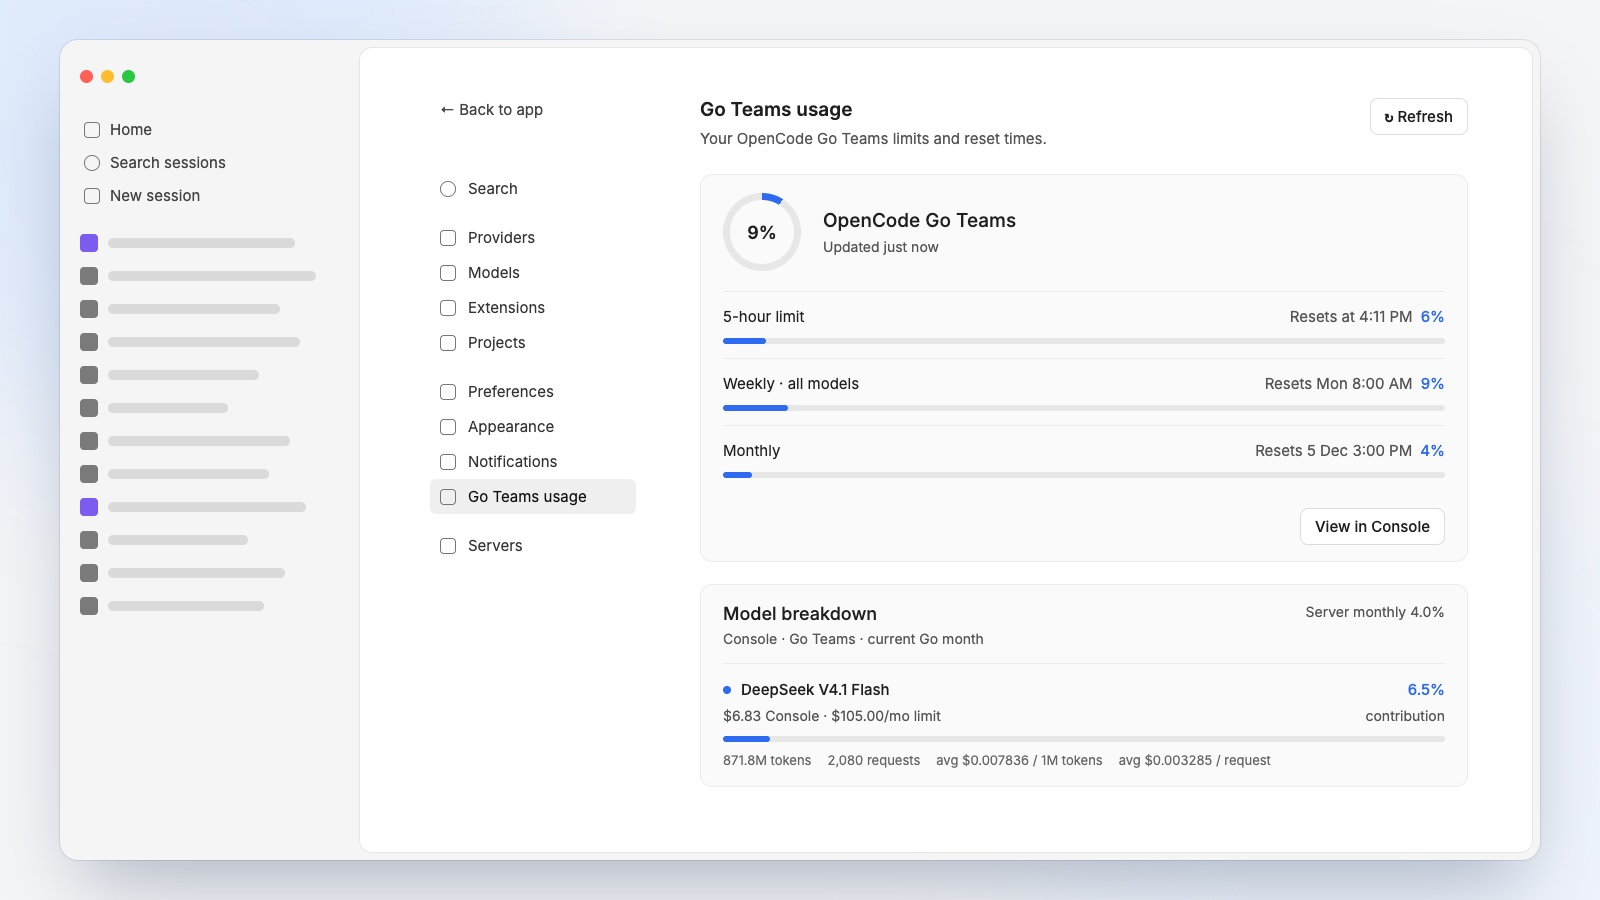
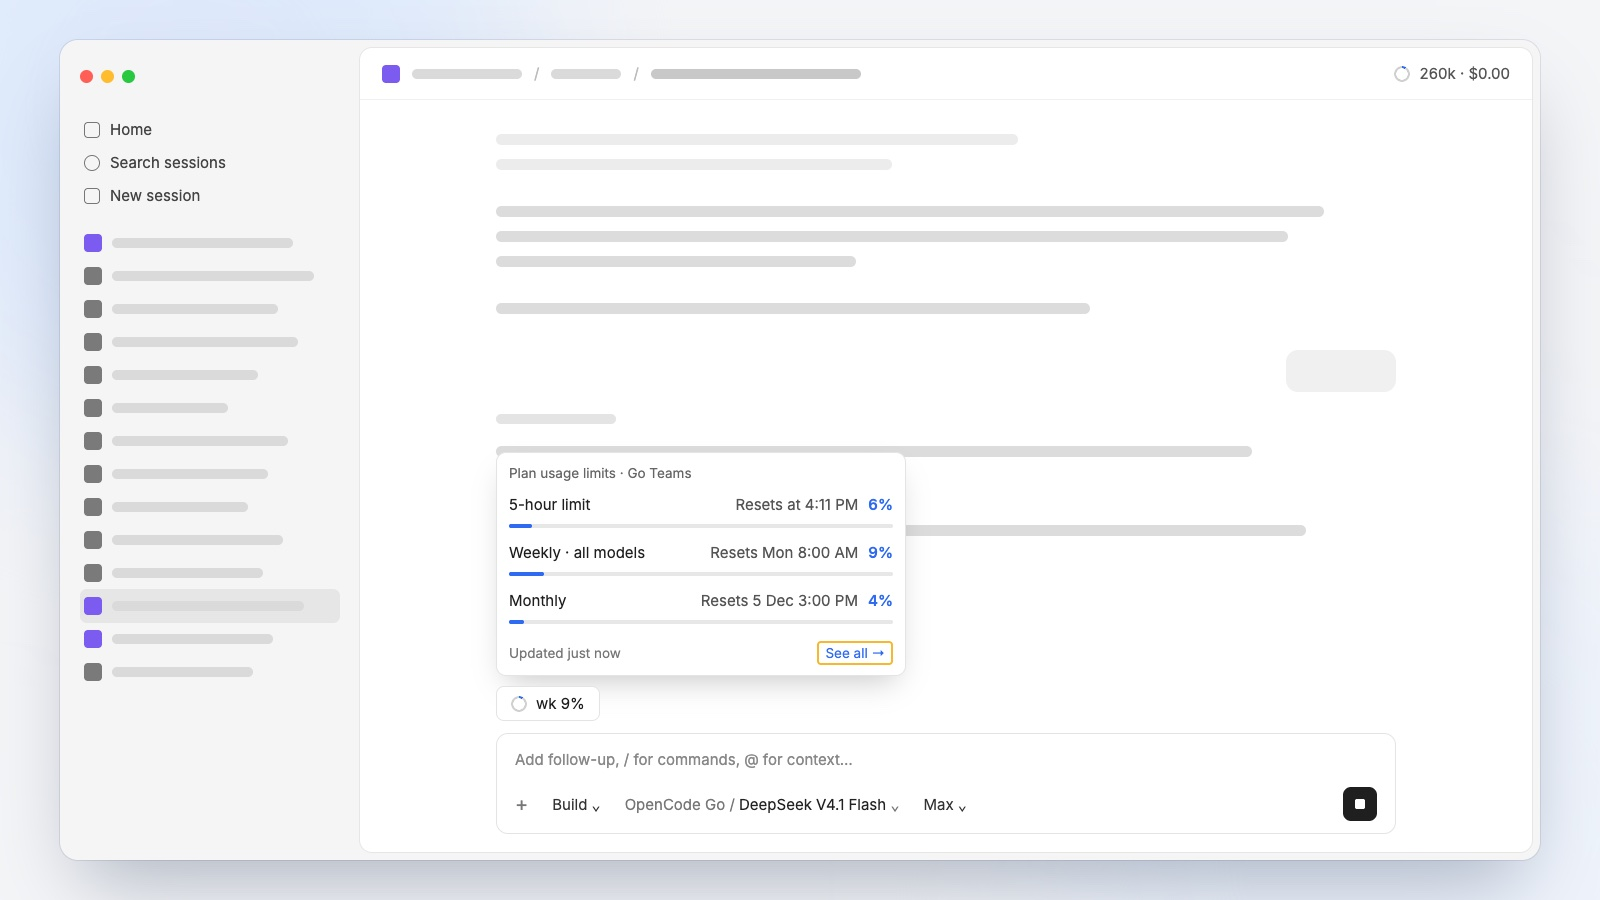
feat: cover and gallery images share one carousel on project pages
Go usage cover is now the composer popup; the settings screen moves to
the gallery, so it is the carousel's second slide.

diff --git a/src/styles/project.css b/src/styles/project.css
@@ -9,7 +9,22 @@
 @media (max-width: 860px) { .project-layout { grid-template-columns: 1fr; } .project-aside { order: -1; } }
 
 .project-main { display: flex; flex-direction: column; gap: var(--space-400); }
-.project-cover { width: 100%; border-radius: var(--radius-large); box-shadow: var(--shadow-raised); }
+.carousel { display: grid; gap: var(--space-150); }
+.carousel__track {
+  display: flex; overflow-x: auto; scroll-snap-type: x mandatory; scroll-behavior: smooth; scrollbar-width: none;
+  border-radius: var(--radius-large); box-shadow: var(--shadow-raised); background: var(--color-bg-sunken);
+}
+.carousel__track::-webkit-scrollbar { display: none; }
+.carousel__track:focus-visible { outline: 2px solid var(--color-brand); outline-offset: 2px; }
+.carousel__slide { flex: 0 0 100%; margin: 0; scroll-snap-align: center; }
+.carousel__slide img { display: block; width: 100%; aspect-ratio: 16 / 9; object-fit: contain; }
+.carousel__controls { display: flex; align-items: center; justify-content: center; gap: var(--space-150); }
+.carousel__controls[hidden] { display: none; }
+.carousel__controls .btn--icon { font-size: 20px; }
+.carousel__dots { display: flex; gap: var(--space-100); }
+.carousel__dot { width: 8px; height: 8px; padding: 0; border: 0; border-radius: 50%; background: var(--color-border); cursor: pointer; }
+.carousel__dot[aria-current="true"] { background: var(--color-brand); }
+@media (prefers-reduced-motion: reduce) { .carousel__track { scroll-behavior: auto; } }
 .project-section h2 { font: var(--font-heading-m); margin-bottom: var(--space-150); }
 
 .highlights { margin: 0; padding: 0; list-style: none; display: grid; gap: var(--space-100); }
@@ -27,8 +42,6 @@
 .timeline__head { display: flex; gap: var(--space-100); align-items: baseline; flex-wrap: wrap; }
 .timeline__item p { margin: var(--space-050) 0 0; }
 
-.gallery { display: grid; gap: var(--space-150); grid-template-columns: repeat(auto-fill, minmax(min(100%, 220px), 1fr)); }
-.gallery img { border-radius: var(--radius-small); box-shadow: var(--shadow-raised); aspect-ratio: 16 / 10; object-fit: cover; width: 100%; }
 
 .project-aside { position: sticky; top: 80px; background: var(--color-bg-sunken); border: 1px solid var(--color-border); border-radius: var(--radius-large); padding: var(--space-200); }
 @media (max-width: 860px) { .project-aside { position: static; } }

diff --git a/src/scripts/carousel.js b/src/scripts/carousel.js
@@ -1,0 +1,33 @@
+// Screenshot carousel: the track is a native scroll-snap strip (swipe and
+// scroll work without JS); this adds prev/next buttons, dots and arrow keys.
+for (const root of document.querySelectorAll('.carousel')) {
+  const track = root.querySelector('.carousel__track');
+  const slides = [...track.children];
+  const controls = root.querySelector('.carousel__controls');
+  if (!controls || slides.length < 2) continue;
+  const dots = [...controls.querySelectorAll('.carousel__dot')];
+  const prev = controls.querySelector('.carousel__prev');
+  const next = controls.querySelector('.carousel__next');
+
+  const index = () => Math.round(track.scrollLeft / track.clientWidth);
+  const go = (i) => {
+    const n = (i + slides.length) % slides.length;
+    track.scrollTo({ left: n * track.clientWidth });
+  };
+  const sync = () => {
+    const i = index();
+    dots.forEach((d, j) => d.setAttribute('aria-current', String(i === j)));
+  };
+
+  prev.addEventListener('click', () => go(index() - 1));
+  next.addEventListener('click', () => go(index() + 1));
+  dots.forEach((d, j) => d.addEventListener('click', () => go(j)));
+  track.addEventListener('keydown', (e) => {
+    if (e.key === 'ArrowLeft') { e.preventDefault(); go(index() - 1); }
+    if (e.key === 'ArrowRight') { e.preventDefault(); go(index() + 1); }
+  });
+  track.addEventListener('scroll', () => requestAnimationFrame(sync), { passive: true });
+
+  controls.hidden = false;
+  sync();
+}

diff --git a/test/build.test.js b/test/build.test.js
@@ -64,6 +64,16 @@ test('minimal detail page has no empty sections', async () => {
   assert.doesNotMatch(html, /Highlights|Versions|<img|undefined/);
 });
 
+test('cover and gallery images share one carousel', async () => {
+  const html = read(await buildSite(), 'projects/full/index.html');
+  const m = html.match(/<section class="carousel"[\s\S]*?<\/section>/);
+  assert.ok(m, 'carousel rendered');
+  const srcs = [...m[0].matchAll(/<img[^>]+src="([^"]+)"/g)].map((x) => x[1]);
+  assert.deepEqual(srcs, ['/assets/projects/full/cover.png', '/assets/projects/full/shot1.png']);
+  assert.doesNotMatch(html, />Gallery</);
+  assert.match(html, /src="\/scripts\/carousel\.js"/);
+});
+
 test('description markdown is rendered and raw HTML escaped', async () => {
   const html = read(await buildSite(), 'projects/full/index.html');
   assert.match(html, /<strong>bold<\/strong>/);
